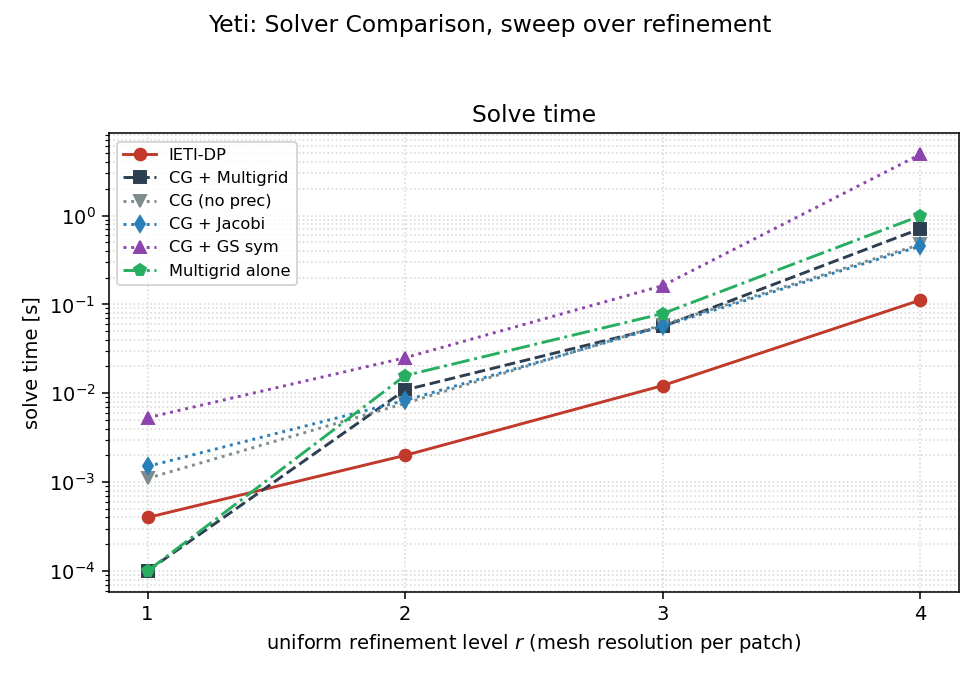
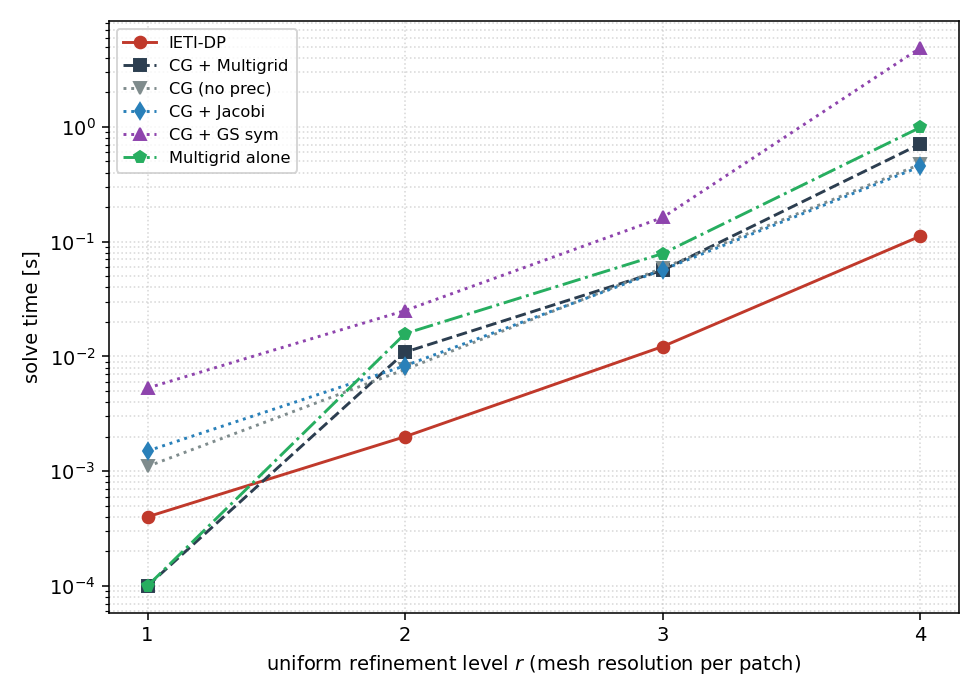
remove titles

diff --git a/examples/run_experiments.py b/examples/run_experiments.py
@@ -265,7 +265,7 @@ def plot(cfg):
         ax.set_yscale("log")
         ax.set_xlabel(xlabel)
         ax.set_ylabel("solve time [s]")
-        ax.set_title("Solve time")
+        # ax.set_title("Solve time")
         ax.grid(True, which="both", ls=":", alpha=0.5)
         ax.legend(fontsize="small")
 
@@ -276,8 +276,8 @@ def plot(cfg):
         if xs_all:
             ax.set_xticks(sorted(xs_all))
 
-        fig.suptitle(f"{cfg['title']}: Solver Comparison, sweep over {sweep}")
-        fig.tight_layout(rect=[0, 0.03, 1, 0.95])
+        # fig.suptitle(f"{cfg['title']}: Solver Comparison, sweep over {sweep}")
+        fig.tight_layout()
         path = os.path.join(FIG_DIR, f"{cfg['fig_prefix']}time_vs_{sweep}.pdf")
         fig.savefig(path)
         fig.savefig(path.replace(".pdf", ".png"), dpi=140)
